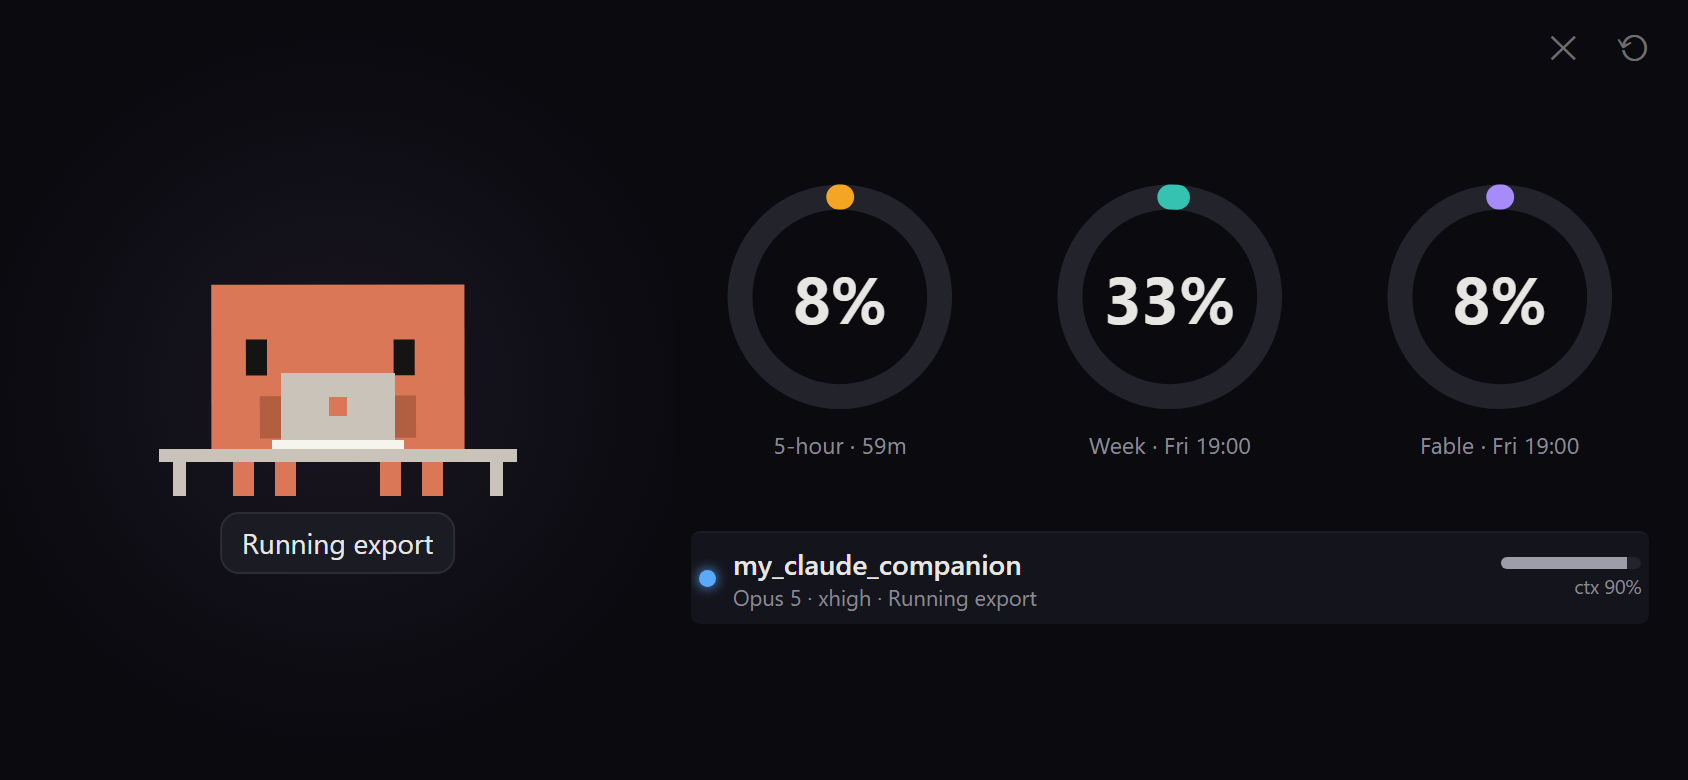
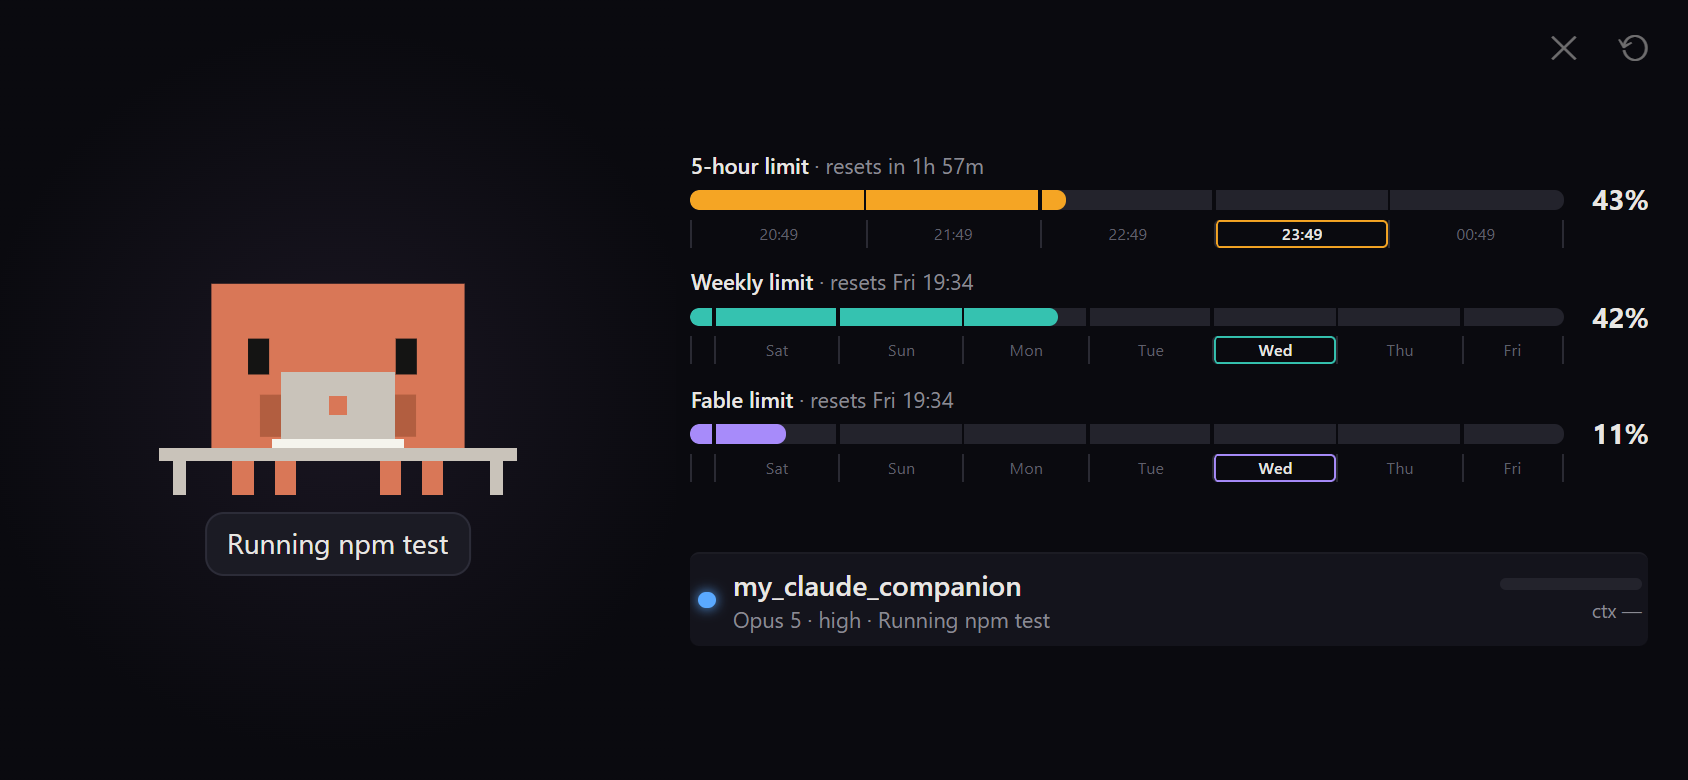
feat: limit bars with hour and day legends instead of rings; version 0.6.0
Each limit is now a bar with its reset line, the percentage at its end, and a small legend
underneath: the 5-hour window's hours, or the week's calendar days cut at local midnight,
with the current hour or day outlined, so the fill reads against the time gone. The
screensaver card shows compact bars. README screenshots retaken.

diff --git a/src/web/style.css b/src/web/style.css
@@ -68,19 +68,22 @@ html, body {
 
 .data { min-width: 0; min-height: 0; display: flex; flex-direction: column; justify-content: center; gap: 3cqmin; padding: 6cqmin 5cqmin 4cqmin 2cqmin; }
 #app.portrait .data { justify-content: flex-start; padding: 3cqmin 5cqmin 5cqmin; }
-/* The three rings share the data column's full width (one equal cell each, like the session rows below) and
-   grow with it: --ring is a cell's width, capped by the height so the sessions keep their room. */
-.rings { display: grid; grid-template-columns: repeat(3, minmax(0, 1fr)); gap: 4cqmin; justify-items: center; }
-#app.landscape .rings { --ring: min(20cqw - 5cqmin, 32cqh); }
-#app.portrait .rings { --ring: min(33cqw - 6cqmin, 22cqh); }
-.ring { position: relative; width: var(--ring, 20cqmin); text-align: center; transition: opacity .4s; }
-.ring.stale { opacity: .45; }
-.ring svg { width: 100%; display: block; }
-.ring .track { fill: none; stroke: var(--track); stroke-width: 4; }
-.ring .val { fill: none; stroke-width: 4; stroke-linecap: round; transition: stroke-dasharray .9s ease; }
-.ring .num { position: absolute; left: 0; right: 0; top: 0; aspect-ratio: 1; display: flex; align-items: center; justify-content: center; font-size: calc(var(--ring, 20cqmin) * 0.26); font-weight: 700; }
-.ring .num.hot { color: var(--bad); }
-.ring .lbl { font-size: 3cqmin; color: var(--dim); margin-top: 1cqmin; white-space: nowrap; }
+/* The limits: one bar each, stacked. The name and reset sit above the bar, the percentage at its end, and the
+   legend under the bar only (same column, so its slots line up with the ticks cut into the fill). */
+.limits { display: flex; flex-direction: column; gap: 2.4cqmin; }
+.bar { --c: #888; display: grid; grid-template-columns: minmax(0, 1fr) 9cqmin; column-gap: 2cqmin; align-items: center; transition: opacity .4s; }
+.bar.stale { opacity: .45; }
+.bar-head { grid-column: 1 / -1; font-size: 2.8cqmin; color: var(--dim); white-space: nowrap; overflow: hidden; text-overflow: ellipsis; margin-bottom: .9cqmin; }
+.bar-head b { color: var(--text); font-weight: 600; }
+.bar-track { position: relative; height: 2.4cqmin; background: var(--track); border-radius: 1.2cqmin; overflow: hidden; }
+.bar-track i { display: block; width: 0; height: 100%; background: var(--c); border-radius: inherit; transition: width .9s ease; }
+.bar-track .ticks b { position: absolute; top: 0; bottom: 0; width: .4cqmin; margin-left: -.2cqmin; background: var(--bg); }
+.bar-num { font-size: 3.6cqmin; font-weight: 700; text-align: right; line-height: 1; }
+.bar-num.hot { color: var(--bad); }
+.bar-legend { grid-column: 1; display: flex; margin-top: .7cqmin; }
+.bar-legend span { flex: none; min-width: 0; font-size: 2.1cqmin; line-height: 1.7; color: #5f5f6a; text-align: center; white-space: nowrap; overflow: hidden; border-left: 1px solid #2a2a33; }
+.bar-legend span:last-child { border-right: 1px solid #2a2a33; }
+.bar-legend span.now { color: var(--text); font-weight: 600; border-radius: .7cqmin; box-shadow: inset 0 0 0 1px var(--c); }
 .note { font-size: 2.7cqmin; color: var(--dim); min-height: 3cqmin; }
 
 .sessions { min-height: 0; overflow: hidden; display: flex; flex-direction: column; }
@@ -108,7 +111,7 @@ html, body {
 .overlay.blank { background: #000; z-index: 80; } /* above the controls */
 
 /* Screensaver (while Clawd sleeps): pure black, so the OLED pixels are off, and a small dim card with Clawd and
-   the rings that glides around the screen (app.js moves it inside .saver-field, which keeps clear of the notch).
+   the limit bars that glides around the screen (app.js moves it inside .saver-field, which keeps clear of the notch).
    Above the dashboard and its controls' row, below the offline and blank overlays. */
 html.saving, html.saving body, html.saving #app { background: #000; }
 #saver { position: absolute; inset: 0; z-index: 40; background: #000; overflow: hidden; }
@@ -116,8 +119,10 @@ html.saving, html.saving body, html.saving #app { background: #000; }
 .saver-field { position: absolute; top: var(--sa-t); right: var(--sa-r); bottom: var(--sa-b); left: var(--sa-l); }
 .saver-card { position: absolute; left: 0; top: 0; display: flex; flex-direction: column; align-items: center; gap: 1.5cqmin; opacity: .6; will-change: transform; }
 .saver-card #mascot { position: static; transform: none; width: 30cqmin; height: 30cqmin; }
-.saver-rings { display: flex; gap: 2.5cqmin; }
-.saver-rings .ring { --ring: 10cqmin; }
-.saver-rings .ring .lbl { font-size: 2.2cqmin; margin-top: .6cqmin; }
+.saver-limits { width: 36cqmin; display: flex; flex-direction: column; gap: 1.2cqmin; }
+.saver-limits .bar { grid-template-columns: 7cqmin minmax(0, 1fr) 6.5cqmin; column-gap: 1.2cqmin; }
+.saver-limits .bar-head { grid-column: auto; margin: 0; font-size: 2.2cqmin; }
+.saver-limits .bar-track { height: 1.6cqmin; }
+.saver-limits .bar-num { font-size: 2.4cqmin; }
 #app.saver .controls { visibility: hidden; }
 

diff --git a/src/web/app.js b/src/web/app.js
@@ -33,7 +33,7 @@ function apply(cmd) {
 }
 
 // ---------- screensaver (burn-in protection while Clawd sleeps) ----------
-// The mood's dim is exactly "asleep": the screen goes black and a small card with Clawd and the rings glides
+// The mood's dim is exactly "asleep": the screen goes black and a small card with Clawd and the limit bars glides
 // around it (saver.js). The live mascot SVG moves into the card and back, so the one renderer keeps drawing.
 // ?saver forces it on (checks and screenshots); a tap on the screensaver wakes Clawd and brings the dashboard back.
 let forceSaver = new URLSearchParams(location.search).has('saver');
@@ -51,7 +51,7 @@ function setSaver(on) {
   document.documentElement.classList.toggle('saving', on);
   saverState = null;
   saverBox = null;
-  if (on) renderRings();
+  if (on) renderLimits();
   drawPending = true;
 }
 function moveSaver(dt) {
@@ -94,28 +94,38 @@ requestAnimationFrame(loop);
 setInterval(() => apply(mood.tick(Date.now())), 500);
 $('mascot').addEventListener('click', () => { if (!saverOn) apply(mood.onTap(Date.now())); }); // in the screensaver, #saver handles the tap
 
-// ---------- rings ----------
-function renderRings() {
-  const { rings, note } = limitsView(snap && snap.limits, Date.now(), skew);
-  drawRings($('rings'), rings);
-  if (saverOn) drawRings($('saverRings'), rings, true);
+// ---------- limits ----------
+function renderLimits() {
+  const { bars, note } = limitsView(snap && snap.limits, Date.now(), skew);
+  drawBars($('limits'), bars);
+  if (saverOn) drawBars($('saverLimits'), bars, true);
   $('limitsNote').textContent = note;
 }
-function drawRings(box, rings, compact = false) {
+// A bar per limit: its name and reset, the fill, the percentage, and (not in the screensaver's compact card)
+// ticks at the cell edges and the legend naming each hour or day, with the current one outlined.
+function drawBars(box, bars, compact = false) {
   if (!box.children.length) {
-    box.innerHTML = rings.map(r => `<div class="ring" data-k="${r.key}"><svg viewBox="0 0 40 40">
-      <circle class="track" cx="20" cy="20" r="16"/>
-      <circle class="val" cx="20" cy="20" r="16" pathLength="100" transform="rotate(-90 20 20)" style="stroke:${r.color};stroke-dasharray:0 100"/>
-      </svg><div class="num"></div><div class="lbl"></div></div>`).join('');
+    box.innerHTML = bars.map(b => `<div class="bar" data-k="${b.key}" style="--c:${b.color}">
+      <div class="bar-head"></div><div class="bar-track"><i></i>${compact ? '' : '<span class="ticks"></span>'}</div><div class="bar-num"></div>
+      ${compact ? '' : '<div class="bar-legend"></div>'}</div>`).join('');
   }
-  for (const r of rings) {
-    const el = box.querySelector(`[data-k="${r.key}"]`);
-    el.classList.toggle('stale', r.stale);
-    el.querySelector('.val').style.strokeDasharray = `${r.pct === null ? 0 : Math.min(r.pct, 100)} 100`;
-    const num = el.querySelector('.num');
-    num.textContent = r.text;
-    num.classList.toggle('hot', r.hot);
-    el.querySelector('.lbl').textContent = r.label + (r.reset && !compact ? ' · ' + r.reset : '');
+  for (const b of bars) {
+    const el = box.querySelector(`[data-k="${b.key}"]`);
+    el.classList.toggle('stale', b.stale);
+    el.querySelector('.bar-track i').style.width = `${b.fill}%`;
+    const num = el.querySelector('.bar-num');
+    num.textContent = b.text;
+    num.classList.toggle('hot', b.hot);
+    const head = el.querySelector('.bar-head');
+    if (compact) { head.textContent = b.short; continue; }
+    head.innerHTML = `<b>${esc(b.label)}</b>${b.reset ? ` · ${esc(b.reset)}` : ''}`;
+    const pc = f => `${(f * 100).toFixed(3)}%`;
+    const key = b.slotList.map(x => `${x.label}${x.current ? '*' : ''}@${pc(x.at)}`).join('|');
+    const legend = el.querySelector('.bar-legend');
+    if (legend.dataset.key === key) continue;
+    legend.dataset.key = key;
+    legend.innerHTML = b.slotList.map(x => `<span${x.current ? ' class="now"' : ''} style="width:${pc(x.width)}">${esc(x.label)}</span>`).join('');
+    el.querySelector('.ticks').innerHTML = b.slotList.slice(1).map(x => `<b style="left:${pc(x.at)}"></b>`).join('');
   }
 }
 
@@ -142,7 +152,7 @@ function setBubble(text, tone) {
 }
 
 function render() {
-  renderRings();
+  renderLimits();
   renderSessions();
 }
 
@@ -206,7 +216,7 @@ document.addEventListener('visibilitychange', () => {
   const now = Date.now();
   if (document.visibilityState === 'visible' && now - lastMsgAt > 25000) reconnect(now);
 });
-setInterval(renderRings, 30000);
+setInterval(renderLimits, 30000);
 
 // ---------- controls ----------
 const standalone = window.matchMedia('(display-mode: fullscreen), (display-mode: standalone)').matches || navigator.standalone === true;

diff --git a/src/web/format.js b/src/web/format.js
@@ -1,12 +1,17 @@
-export const RINGS = [
-  { key: 'fiveHour', label: '5-hour', color: '#f5a524' },
-  { key: 'week', label: 'Week', color: '#35c2b0' },
-  { key: 'fable', label: 'Fable', color: '#a78bfa' },
+const HOUR = 3600e3;
+const DAY = 24 * HOUR;
+// Each limit's window ends at its reset and is cut into hours or days that the legend under the bar names, so
+// the fill can be read against how much of the window has gone.
+export const BARS = [
+  { key: 'fiveHour', label: '5-hour limit', short: '5h', color: '#f5a524', slots: 5, slotMs: HOUR },
+  { key: 'week', label: 'Weekly limit', short: 'Week', color: '#35c2b0', slots: 7, slotMs: DAY },
+  { key: 'fable', label: 'Fable limit', short: 'Fable', color: '#a78bfa', slots: 7, slotMs: DAY },
 ];
 export const STALE_MS = 15 * 60 * 1000;
 
 const ACTIVE = ['thinking', 'reading', 'working', 'compiling'];
 const hhmm = t => new Date(t).toLocaleTimeString('en-GB', { hour: '2-digit', minute: '2-digit', hour12: false });
+const weekday = t => new Date(t).toLocaleDateString('en-GB', { weekday: 'short' });
 
 export function formatReset(resetsAt, now) {
   if (!Number.isFinite(resetsAt)) return '';
@@ -21,21 +26,53 @@ export function formatReset(resetsAt, now) {
   return `${new Date(resetsAt).toLocaleDateString('en-GB', { weekday: 'short' })} ${hhmm(resetsAt)}`;
 }
 
+const nextMidnight = t => { const d = new Date(t); d.setHours(24, 0, 0, 0); return d.getTime(); };
+
+// The legend's cells, as { label, at, width, current } with at and width as fractions of the window.
+// Hours are equal slots named by their start time. Days are calendar days cut at local midnight, so the
+// outlined day is today: a window from Fri 19:00 opens with a short Fri and closes with most of the next Fri.
+// A day cell under 12 hours (and so too narrow for its name) goes unnamed; DST days are 23 or 25 hours.
+// The cell holding now is current; none is once the window has ended.
+export function limitSlots(bar, resetsAt, now) {
+  if (!Number.isFinite(resetsAt)) return [];
+  const span = bar.slots * bar.slotMs;
+  const start = resetsAt - span;
+  const edges = [start];
+  if (bar.slotMs < DAY) for (let i = 1; i < bar.slots; i++) edges.push(start + i * bar.slotMs);
+  else for (let d = nextMidnight(start); d < resetsAt; d = nextMidnight(d)) edges.push(d);
+  edges.push(resetsAt);
+  return edges.slice(0, -1).map((from, i) => {
+    const to = edges[i + 1];
+    const label = bar.slotMs < DAY ? hhmm(from) : to - from >= DAY / 2 ? weekday(from) : '';
+    return { label, at: (from - start) / span, width: (to - from) / span, current: now >= from && now < to };
+  });
+}
+
+export function resetLine(resetsAt, now) {
+  const r = formatReset(resetsAt, now);
+  if (!r) return '';
+  if (r === 'now') return 'resets now';
+  return resetsAt - now < DAY ? `resets in ${r}` : `resets ${r}`;
+}
+
 // skewMs = serverTime - phone clock, so countdowns and staleness use the PC's clock.
 export function limitsView(limits, now, skewMs = 0) {
   const L = limits || { status: 'unavailable' };
   const t = now + skewMs;
   const stale = L.status === 'stale' || (L.status === 'ok' && Number.isFinite(L.asOf) && t - L.asOf > STALE_MS);
-  const rings = RINGS.map(r => {
-    const w = L[r.key];
+  const bars = BARS.map(b => {
+    const w = L[b.key];
     const pct = w && Number.isFinite(w.pct) ? w.pct : null;
-    return { ...r, pct, text: pct === null ? '—' : `${pct}%`, reset: w ? formatReset(w.resetsAt, t) : '', hot: pct !== null && pct >= 80, stale };
+    return {
+      ...b, pct, fill: pct === null ? 0 : Math.min(pct, 100), text: pct === null ? '—' : `${pct}%`,
+      reset: w ? resetLine(w.resetsAt, t) : '', slotList: w ? limitSlots(b, w.resetsAt, t) : [], hot: pct !== null && pct >= 80, stale,
+    };
   });
   let note = '';
   if (L.status === 'signin') note = 'Run "claude auth login" on the PC to show limits';
   else if (L.status === 'unavailable') note = 'Limits unavailable';
   else if (stale && Number.isFinite(L.asOf)) note = `as of ${hhmm(L.asOf)}`;
-  return { rings, note };
+  return { bars, note };
 }
 
 export function sessionMeta(s) {

diff --git a/src/web/index.html b/src/web/index.html
@@ -19,7 +19,7 @@
       <svg id="mascot" viewBox="-16 -28 32 32" role="img" aria-label="Clawd"></svg>
     </section>
     <section class="data">
-      <div id="rings" class="rings"></div>
+      <div id="limits" class="limits"></div>
       <div id="limitsNote" class="note"></div>
       <div id="sessions" class="sessions"></div>
     </section>
@@ -27,7 +27,7 @@
       <button id="btnClose" aria-label="Close">✕</button>
       <button id="btnRotate" aria-label="Rotate">⟲</button>
     </nav>
-    <div id="saver" hidden><div class="saver-field"><div class="saver-card"><div id="saverRings" class="saver-rings"></div></div></div></div>
+    <div id="saver" hidden><div class="saver-field"><div class="saver-card"><div id="saverLimits" class="saver-limits"></div></div></div></div>
     <div id="offline" class="overlay" hidden><p>PC offline — waiting…</p></div>
     <div id="blank" class="overlay blank" hidden></div>
   </main>

diff --git a/README.md b/README.md
@@ -13,7 +13,7 @@ Clawd isn't a looping GIF. He's a live SVG rig with 26 hand-timed animations tha
 Everything runs on your own machine. The plugin starts a small web server on your PC, and any phone or tablet browser on the same Wi-Fi opens the dashboard. There's no app to install, no account and no cloud.
 
 <p align="center">
-  <img src="docs/images/dashboard-landscape.png" width="68%" alt="The dashboard on a phone held sideways: Clawd typing at his laptop while Claude runs a command, the 5-hour, week and Fable limit rings, and the active session">
+  <img src="docs/images/dashboard-landscape.png" width="68%" alt="The dashboard on a phone held sideways: Clawd typing at his laptop while Claude runs a command, the 5-hour, weekly and Fable limit bars with their hour and day legends, and the active session">
   <img src="docs/images/dashboard-phone-portrait.png" width="25%" alt="The same dashboard upright">
 </p>
 
@@ -25,7 +25,7 @@ Independent project, not affiliated with Anthropic.
 
 ```
 Claude Code hooks  ──►  local server on your PC  ──►  phone browser on your Wi-Fi
-(what each session        (sessions, limits via          (limit rings, sessions,
+(what each session        (sessions, limits via          (limit bars, sessions,
  is doing, sanitised)      Claude Code's get_usage)       Clawd, live over SSE)
 ```
 
@@ -57,7 +57,7 @@ In Claude Code, run `/claude-companion-pair`. A page opens in your PC's browser 
 
 - **✕** blanks the screen until you tap it (night mode).
 - **⟲** turns the layout 90° at a time, so it works with rotation lock on. The choice is remembered.
-- **Burn-in protection.** While Claude works, the whole dashboard drifts slowly so no pixel stays lit in one place. When Clawd falls asleep (5 quiet minutes), a screensaver takes over: the screen goes black and a small, dim Clawd with your three rings glides around it. Any Claude activity or a tap brings the dashboard back.
+- **Burn-in protection.** While Claude works, the whole dashboard drifts slowly so no pixel stays lit in one place. When Clawd falls asleep (5 quiet minutes), a screensaver takes over: the screen goes black and a small, dim Clawd with your three limit bars glides around it. Any Claude activity or a tap brings the dashboard back.
 
 The page keeps the screen awake while it's open. If your phone still locks, set iPhone Settings → Display & Brightness → Auto-Lock → Never, or turn on Android Developer options → Stay awake while charging.
 
